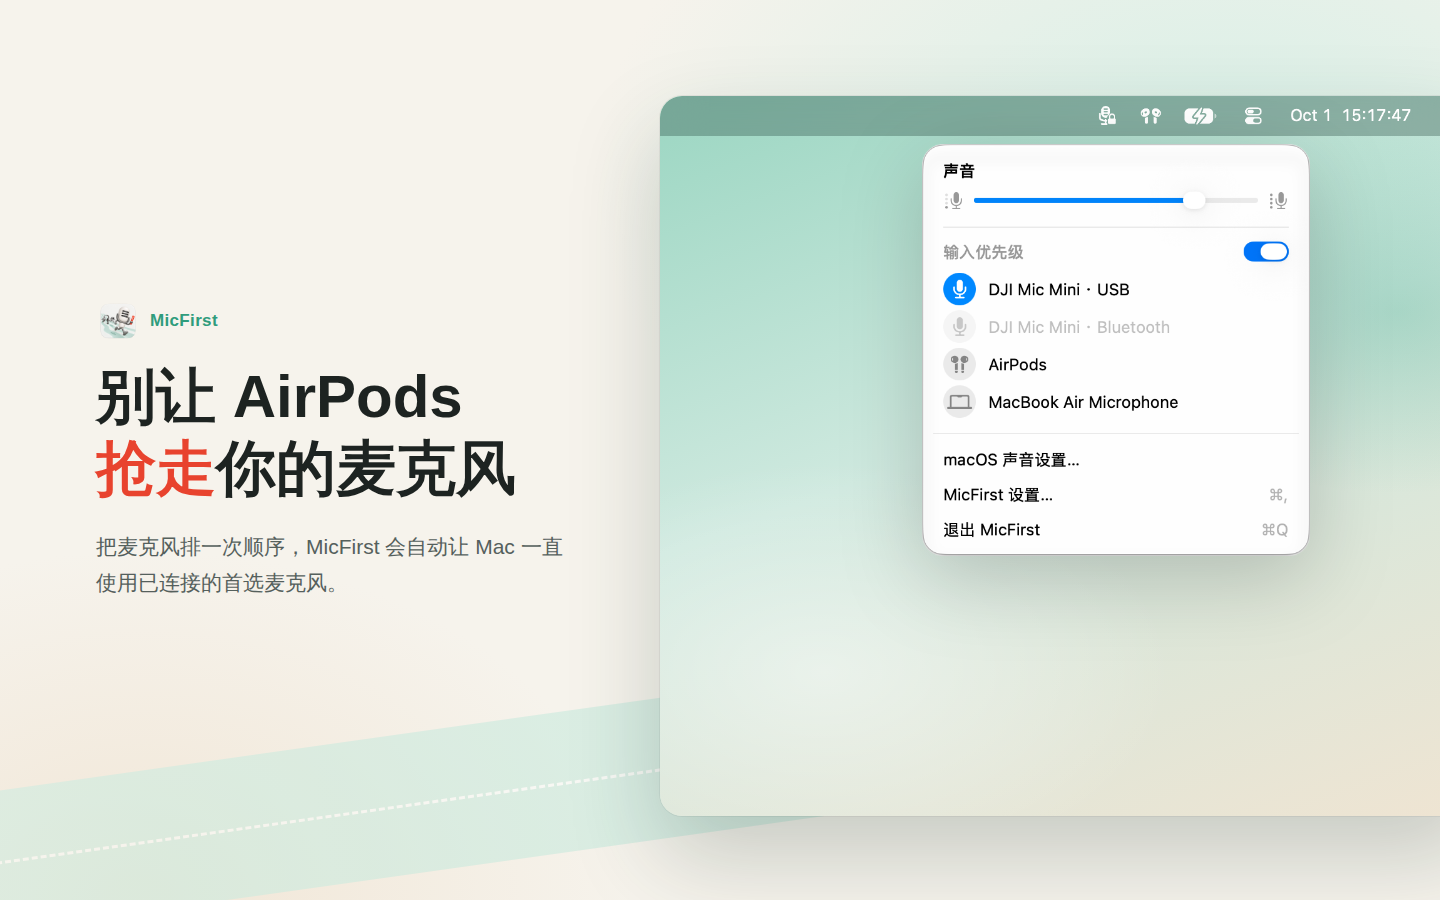
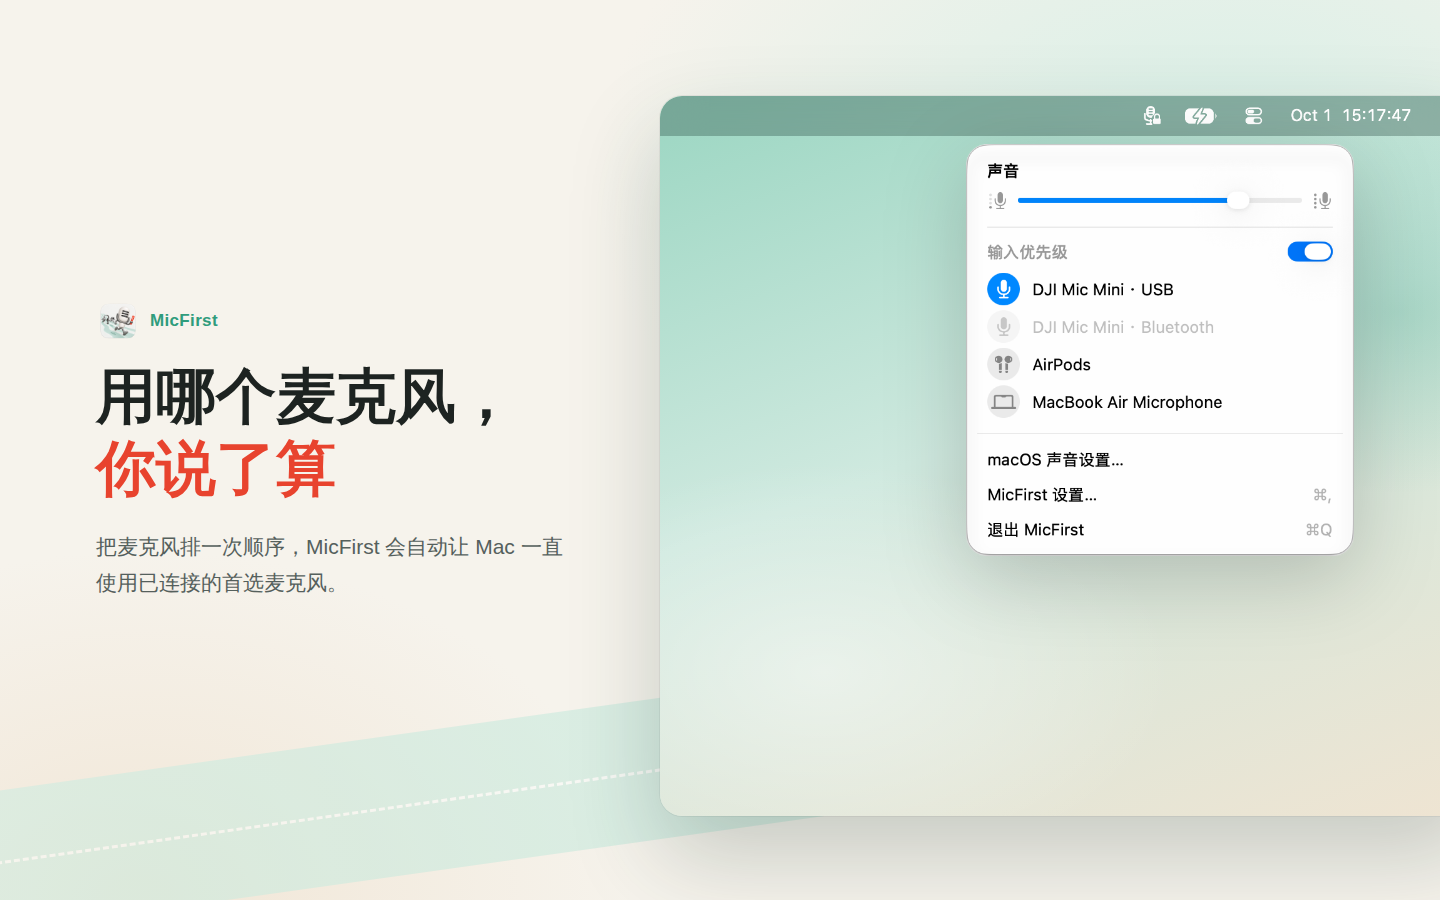
Refresh README screenshots for the resubmitted App Store set
The App Store review rejected AirPods in the subtitle and headline
copy, so slides 1 and 2 now use generic headphone wording and the
menu bar strip no longer shows the AirPods status icon.

Claude-Session: https://claude.ai/code/session_01AsXH5Hqh6y1fYfXK8neG5T

diff --git a/README.md b/README.md
@@ -33,7 +33,7 @@ uses the first available device and restores it after external route changes.
 </p>
 
 <p align="center">
-  <img src="docs/assets/screenshots/store-en-02.png" width="720" alt="MicFirst switching back after AirPods take over the input">
+  <img src="docs/assets/screenshots/store-en-02.png" width="720" alt="MicFirst switching back after Bluetooth headphones take over the input">
 </p>
 
 <p align="center">
